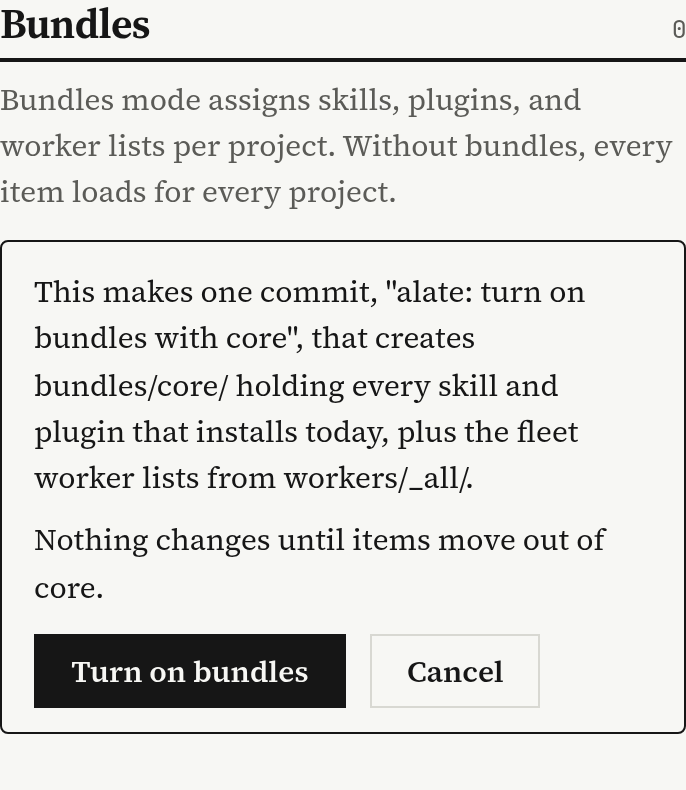
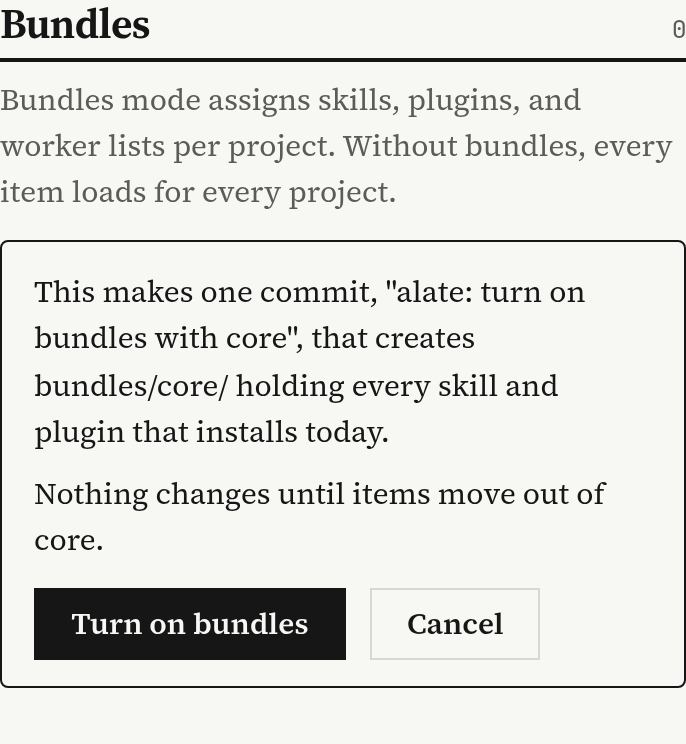
fix: turn-on copies no worker list so every project keeps its items

diff --git a/web/app.js b/web/app.js
@@ -530,7 +530,7 @@ function overviewView() {
     const turnYes = h('button', { type: 'button', class: 'btn', text: 'Turn on bundles' });
     const turnCancel = h('button', { type: 'button', class: 'btn quiet', text: 'Cancel' });
     const turnConfirm = h('div', { class: 'confirm', id: 'turn-on-confirm' },
-      h('p', { text: 'This makes one commit, "alate: turn on bundles with core", that creates bundles/core/ holding every skill and plugin that installs today, plus the fleet worker lists from workers/_all/.' }),
+      h('p', { text: 'This makes one commit, "alate: turn on bundles with core", that creates bundles/core/ holding every skill and plugin that installs today.' }),
       h('p', { text: 'Nothing changes until items move out of core.' }),
       h('div', { class: 'row' }, turnYes, turnCancel));
     turnConfirm.hidden = true;

diff --git a/specs/bundles.md b/specs/bundles.md
@@ -336,23 +336,25 @@ notes and the refresh behave as for a file edit.
   names the commit subject and says that nothing changes until items move out
   of core; Cancel hides it and writes nothing. The confirmed action creates
   `bundles/core/` in one commit through the same save path as every other
-  action:
-  - `skills.txt` and `plugins.txt` with the standard two-line header and every
-    skill and plugin that installs today (the inventory's known universe), one
-    name per line, sorted;
-  - each of the four fleet worker lists (`apt.txt`, `tools.json`, `env.txt`,
-    `requirements.txt`) that `workers/_all/` holds, copied byte for byte. Core
-    is the only bundle whose worker lists merge into every project, so the
-    fleet lists keep reaching every project through the merge, and the
-    dashboard's per-project effective lists — which never merge `workers/_all/`
-    — keep showing them.
+  action: `skills.txt` and `plugins.txt` with the standard two-line header and
+  every skill and plugin that installs today (the inventory's known universe),
+  one name per line, sorted.
+  The action copies no worker list. Core merges first for every project and the
+  first pin or tool wins, so a fleet list copied into core would let a fleet
+  entry beat a project's own entry — today the project wins (`mergeRequirements`
+  reads `[...project, ...all]`, and the tools readers put the project's tools
+  before `_all`). `workers/_all/apt.txt` has no consumer today ("there is no
+  aptAll"), so a copy would add installs that never happened. With no worker
+  files in core, every project's merged worker lists are its own lists, the
+  fleet folder keeps its verbatim install, and the turn-time merge keeps
+  today's precedence — every project's items stay exactly the list before.
   After the action, the computed effective item list of every project equals
   the list before: every skill and plugin stays global through core, and each
-  project's worker items stay its own lists plus the fleet lists. The fleet
-  folder `workers/_all/` itself stays in place and keeps today's verbatim
-  install. A `turn-on` on a repo that already holds `bundles/` content refuses
-  with 409 and writes nothing, so a second click does nothing. The commit
-  subject is `alate: turn on bundles with core`; the confirm text quotes it.
+  project's worker items are its own lists, with the fleet lists still merged
+  at turn time as today. A `turn-on` on a repo that already holds `bundles/`
+  content refuses with 409 and writes nothing, so a second click does nothing.
+  The commit subject is `alate: turn on bundles with core`; the confirm text
+  quotes it.
 - Display: each bundle block lists its items by kind (skills, plugins, apt
   lines, tool names, env lines, requirement pins), and every item carries
   remove and move controls; each list-file name links to the file editor. Each project
@@ -401,13 +403,16 @@ Tests use a temp data repo and a temp home, and each fails before the change:
 11. With no `bundles/`, the dashboard shows the turn-on note and button, and
    the confirm names the commit subject and the "nothing changes until items
    move out of core" sentence (a DOM test). Cancel writes nothing.
-12. The turn-on action creates `bundles/core/` with every skill and plugin and
-   the four `workers/_all/` copies in one commit; after it, the computed
-   effective list of each project equals the list before; a second click
-   refuses with 409 and no new commit.
+12. The turn-on action creates `bundles/core/` with only `skills.txt` and
+   `plugins.txt` in one commit; after it, the computed effective list of each
+   project equals the list before, with a project entry that shares a fleet
+   entry's name keeping the project's own line; a second click refuses with
+   409 and no new commit.
 13. A repo turned on this way installs like the repo before the action: every
-   skill global, no shelf, per-project worker items still the project's own
-   lists plus the fleet lists.
+   skill global, no shelf, each project's merged worker lists hold its own
+   entries only (a project pin keeps beating a fleet pin of the same name at
+   turn time, `workers/_all/` untouched, no fleet apt package joins a project
+   that never installed it).
 
 The repo check and test commands (the verified chain in `AGENTS.md`, `npm test`)
 exit 0 with the new test files joined into the chain, `package.json`, and

diff --git a/README.md b/README.md
@@ -153,7 +153,7 @@ Items that no bundle names stay in the repo. alate scans them with the same gate
 
 Bundles mode is active when `bundles/` exists as a directory in the data repo. Git tracks no empty folders, so a repo that wants bundles mode commits at least one bundle folder. Without the `bundles/` directory, today's behavior stays exactly. Every skill installs into the home roots for every project. No `.ottr/project-skills/` or `.ottr/plugins/` folder appears.
 
-The dashboard starts bundles mode safely: with no `bundles/` in the repo, the Bundles section shows a note and one `Turn on bundles` button. The confirm step names the commit. The action creates `bundles/core/` with every skill and plugin that installs today, plus the four fleet worker lists from `workers/_all/`, in one commit. After it, every project keeps the effective items it had before: every skill and plugin stays global through core, and each project's worker items stay its own lists plus the fleet lists. A second click refuses, and the board takes over with the normal bundle editing.
+The dashboard starts bundles mode safely: with no `bundles/` in the repo, the Bundles section shows a note and one `Turn on bundles` button. The confirm step names the commit. The action creates `bundles/core/` with every skill and plugin that installs today, in one commit, and copies no worker list: core merges first for every project and the first pin or tool wins, so a copied fleet list would let a fleet entry beat a project's own entry, and `workers/_all/apt.txt` has no consumer today. The fleet folder keeps its verbatim install, and the turn-time merge keeps its project-first precedence. After it, every project keeps the effective items it had before: every skill and plugin stays global through core, and each project's worker items are its own lists. A second click refuses, and the board takes over with the normal bundle editing.
 
 ### Refusals
 
